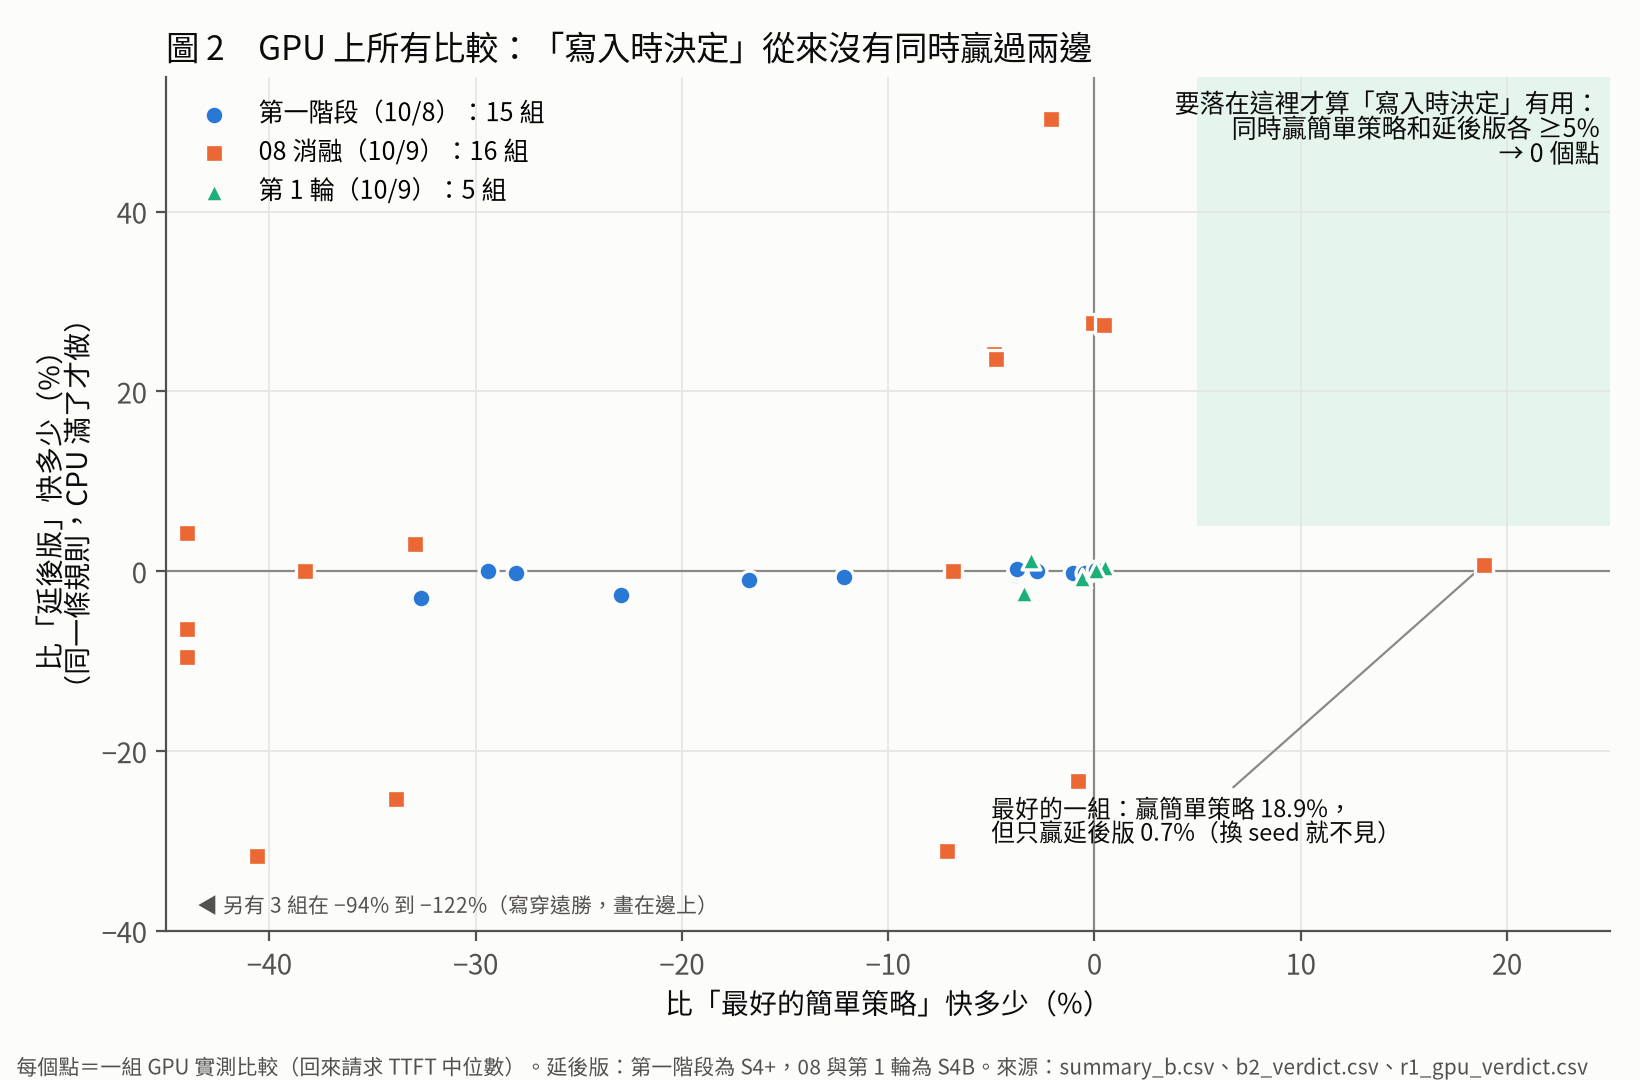
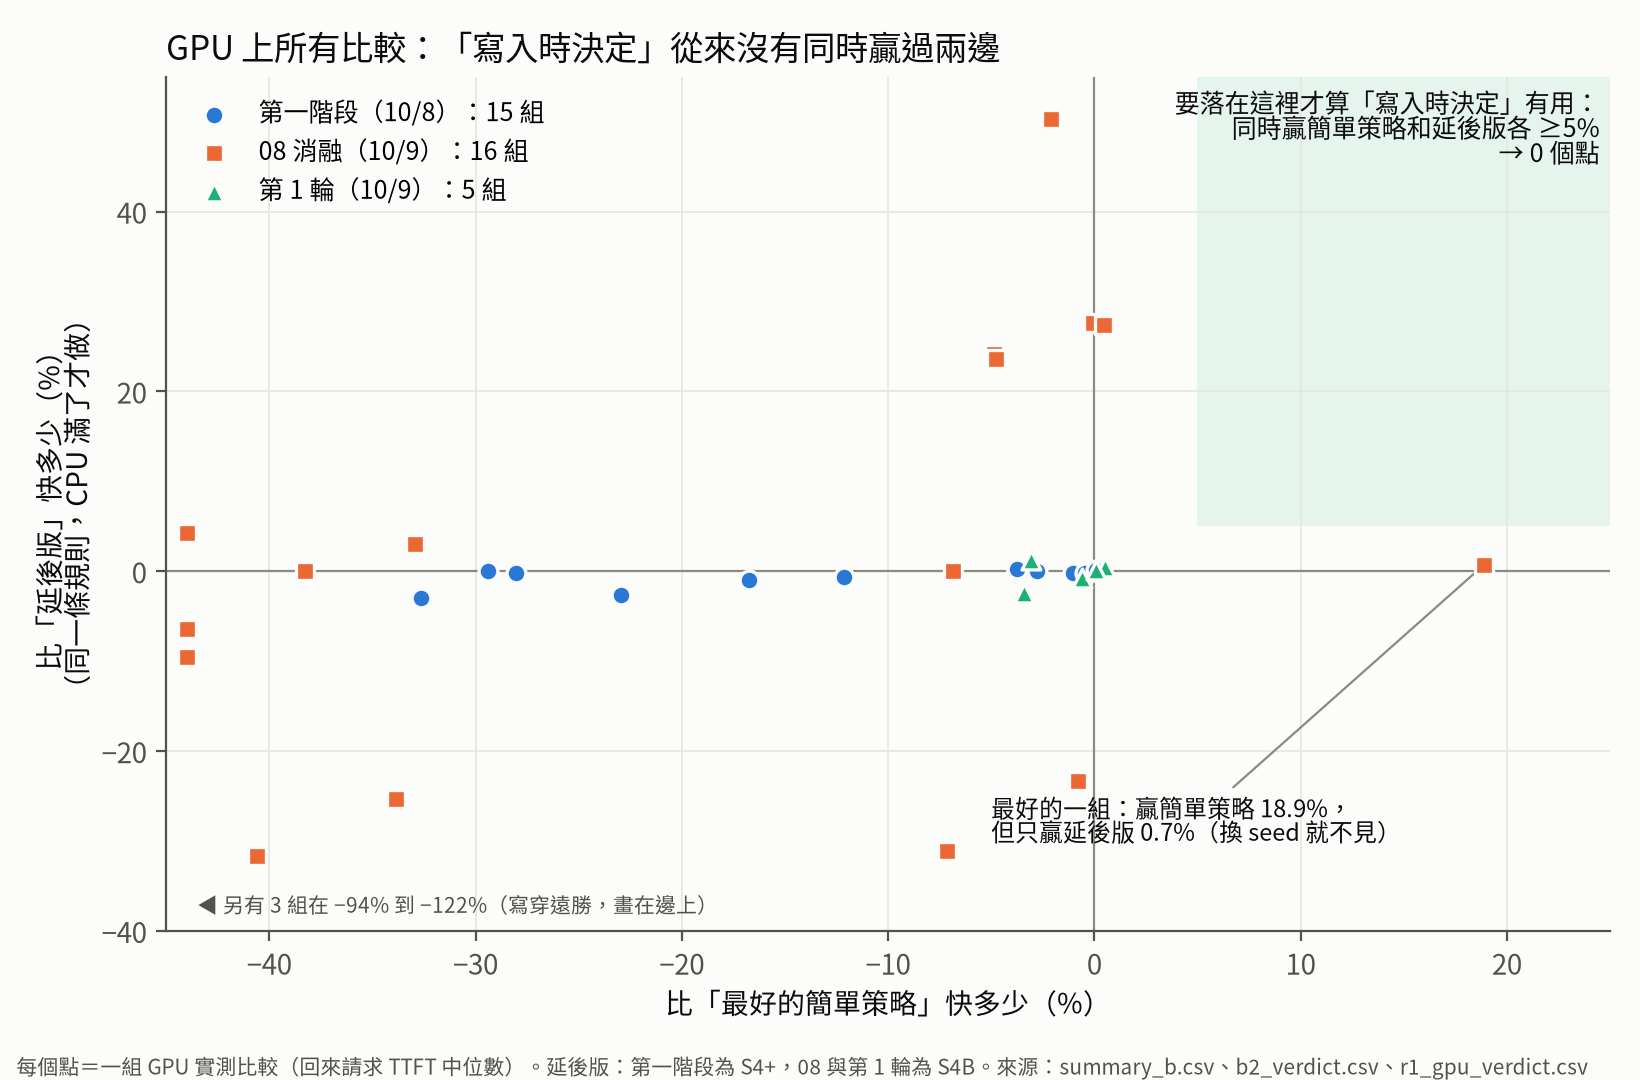
results(m9): 給老師的「時間花在哪裡」比較圖（32K、本地 SSD、GPU 閒／忙）
Claude-Session: https://claude.ai/code/session_01DSvhi2Kb7t9pTCccJpveLE

Changed region(s): [[0.0933, 0.0306, 0.6841, 0.0611]]

diff --git a/code/m9_advisor_breakdown.py b/code/m9_advisor_breakdown.py
@@ -1,0 +1,109 @@
+"""m9_advisor_breakdown.py — 給老師的「時間花在哪裡」比較圖（一張）。只讀既有的 A1 CSV，不產生新的量測。
+
+Cake 還原時兩條線同時跑：GPU 從前面重算、I/O 從後面載入（CPU 層、SSD 層），兩條線都結束後再算新的 token。
+每一列畫出這兩條線各花多久，就看得出等待時間卡在哪一邊。
+
+用法：python code/m9_advisor_breakdown.py
+輸出：docs/phase1_20261008/report/figs/advisor_breakdown.png；results/m9_followup/advisor_breakdown_data.csv
+"""
+import datetime
+import os
+
+import matplotlib
+import numpy as np
+import pandas as pd
+
+matplotlib.use("Agg")
+import matplotlib.pyplot as plt  # noqa: E402
+from matplotlib import font_manager  # noqa: E402
+from matplotlib.patches import Patch  # noqa: E402
+
+ROOT = os.path.join(os.path.dirname(os.path.abspath(__file__)), "..")
+SRC = os.path.join(ROOT, "results", "m7_write_policy_mi300x", "a1_share.csv")
+FIG = os.path.join(ROOT, "docs", "phase1_20261008", "report", "figs", "advisor_breakdown.png")
+OUT = os.path.join(ROOT, "results", "m9_followup", "advisor_breakdown_data.csv")
+RID = os.environ.get("RUN_ID", "no-run-id")
+TS = datetime.datetime.now(datetime.timezone.utc).isoformat(timespec="seconds")
+
+FP = "/mlsteam/data/tiara/fonts/NotoSansCJKtc-Regular.otf"
+font_manager.fontManager.addfont(FP)
+plt.rcParams.update({"font.family": [font_manager.FontProperties(fname=FP).get_name(), "DejaVu Sans"],
+                     "font.size": 10, "axes.spines.top": False, "axes.spines.right": False, "axes.spines.left": False,
+                     "axes.edgecolor": "#52514e", "xtick.color": "#52514e", "ytick.color": "#0b0b0b",
+                     "figure.facecolor": "#fcfcfb", "axes.facecolor": "#fcfcfb", "savefig.facecolor": "#fcfcfb"})
+C_GPU, C_SSD, C_CPU, C_NEW = "#2a78d6", "#eb6834", "#1baf7a", "#b9b8b2"   # 參考調色盤前三格＋中性灰
+INK, INK2 = "#0b0b0b", "#52514e"
+
+STRATS = [("S0", "全部都存"), ("S2a", "先寫再丟（前段）"), ("S3", "一開始不寫（前段）"), ("S5", "依位置放（我的方法）")]
+GPUS = [("idle", "GPU 閒"), ("busy2", "GPU 忙 2.1 倍")]
+
+
+def main():
+    a = pd.read_csv(SRC)
+    q = a[(a.L == 32768) & (a.gap == np.inf) & (a.contaminated_gpu == 0) & (a.ssd_dev == "local")]
+    g = q.groupby(["gpu_state", "strategy"]).agg(
+        t_rec=("t_recompute", "median"), t_cpu=("t_load_cpu", "median"), t_ssd=("t_load_ssd", "median"),
+        t_restore=("t_restore", "median"), t_new=("t_new", "median"), ttft=("ttft", "median"),
+        meet=("meet", "median"), n_cpu=("n_load_cpu", "median"), n_ssd=("n_load_ssd", "median"),
+        n=("ttft", "size"), src_run_id=("run_id", "first")).reset_index()
+
+    fig, ax = plt.subplots(figsize=(10.5, 6.0))
+    y, ticks, labels, rows = 0.0, [], [], []
+    h = 0.30
+    for gs, gname in GPUS:
+        ax.text(-0.02, y + 0.15, gname, ha="right", va="center", fontsize=10.5, color=INK, fontweight="bold",
+                transform=ax.get_yaxis_transform())
+        y -= 0.55
+        for s, sname in STRATS:
+            r = g[(g.gpu_state == gs) & (g.strategy == s)].iloc[0]
+            # 上：GPU 重算線；下：I/O 載入線（先 CPU 後 SSD）
+            ax.barh(y + h / 2 + 0.02, r.t_rec, h, color=C_GPU, zorder=3)
+            ax.barh(y - h / 2 - 0.02, r.t_cpu, h, color=C_CPU, zorder=3)
+            ax.barh(y - h / 2 - 0.02, r.t_ssd, h, left=r.t_cpu, color=C_SSD, zorder=3)
+            # 兩條線都結束後，算新的 token
+            ax.barh(y + h / 2 + 0.02, r.t_new, h, left=r.t_restore, color=C_NEW, zorder=3)
+            ax.plot([r.ttft, r.ttft], [y - h - 0.06, y + h + 0.06], color=INK, lw=1.6, zorder=4)
+            ax.text(r.ttft + 0.015, y, f"{r.ttft:.2f} 秒　GPU 算 {int(r.meet)} 段、I/O 搬 {int(r.n_cpu + r.n_ssd)} 段",
+                    va="center", fontsize=8.5, color=INK2)
+            ticks.append(y)
+            labels.append(sname)
+            rows.append(dict(run_id=RID, ts=TS, gpu_state=gs, strategy=s, t_recompute=r.t_rec, t_load_cpu=r.t_cpu,
+                             t_load_ssd=r.t_ssd, t_restore=r.t_restore, t_new=r.t_new, ttft=r.ttft, meet=r.meet,
+                             n_load_cpu=r.n_cpu, n_load_ssd=r.n_ssd, n_reps=r.n, src="a1_share.csv",
+                             src_run_id=r.src_run_id))
+            y -= 1.0
+        y -= 0.2
+
+    # 重點標註：GPU 忙時，一開始不寫只能把前段全部重算
+    r3 = g[(g.gpu_state == "busy2") & (g.strategy == "S3")].iloc[0]
+    r0 = g[(g.gpu_state == "busy2") & (g.strategy == "S0")].iloc[0]
+    ax.text(1.27, ticks[3] + 0.05,
+            "怎麼看：每列上面是 GPU 重算、下面是 I/O 載入，同時開始。\n"
+            "等待時間（黑線）＝比較長的那條＋算新 token。\n\n"
+            "GPU 忙時：\n"
+            f"・「全部都存」可以少算幾段（{int(g[(g.gpu_state == 'idle') & (g.strategy == 'S0')].meet.iloc[0])}→{int(r0.meet)} 段），改從 SSD 搬。\n"
+            f"・「先寫再丟」「一開始不寫」沒有前段可搬，\n　只能把 {int(r3.meet)} 段算完；I/O 早就搬完，在旁邊等。\n"
+            f"　→ 比「全部都存」慢 {100 * (r3.ttft / r0.ttft - 1):.0f}%",
+            va="center", ha="left", fontsize=8.8, color=INK, linespacing=1.45,
+            bbox=dict(boxstyle="round,pad=0.5", fc="#f3f2ee", ec="#d6d5cf", lw=0.8))
+    ax.set_yticks(ticks, labels)
+    ax.tick_params(axis="y", length=0)
+    ax.set_xlim(0, 2.05)
+    ax.set_xlabel("時間（秒）")
+    ax.grid(axis="x", color="#e6e5e0", lw=0.6, zorder=0)
+    ax.legend(handles=[Patch(color=C_GPU, label="GPU 重算（從前面往後）"), Patch(color=C_CPU, label="從 CPU 載入"),
+                       Patch(color=C_SSD, label="從 SSD 載入（從後面往前）"), Patch(color=C_NEW, label="算新的 token"),
+                       plt.Line2D([], [], color=INK, lw=1.6, label="等待時間 TTFT")],
+              loc="upper right", frameon=False, fontsize=8.5, ncol=1)
+    ax.set_title("時間花在哪裡：Cake 還原時，GPU 重算和 I/O 載入兩條線同時跑，等待時間由比較長的那條決定", loc="left",
+                 fontsize=11, color=INK, pad=12)
+    fig.text(0.01, 0.01, "Llama-3.1-8B、32K（64 段）、SSD 層＝本地 SSD 實測參數、使用者等寫完才回來；每格 6 次的中位數。"
+             f"run {g.src_run_id.iloc[0]}；畫圖程式 code/m9_advisor_breakdown.py", fontsize=7.5, color=INK2)
+    fig.tight_layout(rect=(0.04, 0.03, 1, 1))
+    fig.savefig(FIG, dpi=200)
+    pd.DataFrame(rows).to_csv(OUT, index=False)
+    print(f"{FIG}\n{OUT}: {len(rows)} 列")
+
+
+if __name__ == "__main__":
+    main()

diff --git a/code/m9_advisor_figs.py b/code/m9_advisor_figs.py
@@ -74,7 +74,7 @@ def fig1():
         ax.set_ylabel("回來請求的 TTFT（秒）")
         ax.grid(axis="x", visible=False)
     axs[0].legend(frameon=False, fontsize=9, loc="upper left")
-    fig.suptitle("圖 1　省下的寫入沒有縮短等待；GPU 忙時，沒存的前段只能重算", x=0.01, ha="left", fontsize=12, color=INK)
+    fig.suptitle("省下的寫入沒有縮短等待；GPU 忙時，沒存的前段只能重算", x=0.01, ha="left", fontsize=12, color=INK)
     fig.text(0.01, 0.005, "Llama-3.1-8B、32K、使用者等寫完才回來、每格 6 次的中位數；「算 n 段」＝64 段裡 GPU 重算了幾段（Cake 的會合點）。"
              "run 20261008-134526-m7-a1", fontsize=7.5, color=INK2)
     fig.tight_layout(rect=(0, 0.04, 1, 0.95))
@@ -133,7 +133,7 @@ def fig2():
     ax.set_xlabel("比「最好的簡單策略」快多少（%）")
     ax.set_ylabel("比「延後版」快多少（%）\n（同一條規則，CPU 滿了才做）")
     ax.legend(frameon=False, fontsize=9, loc="upper left")
-    ax.set_title("圖 2　GPU 上所有比較：「寫入時決定」從來沒有同時贏過兩邊", loc="left", fontsize=12, color=INK)
+    ax.set_title("GPU 上所有比較：「寫入時決定」從來沒有同時贏過兩邊", loc="left", fontsize=12, color=INK)
     fig.text(0.01, 0.005, "每個點＝一組 GPU 實測比較（回來請求 TTFT 中位數）。延後版：第一階段為 S4+，08 與第 1 輪為 S4B。"
              "來源：summary_b.csv、b2_verdict.csv、r1_gpu_verdict.csv", fontsize=7.5, color=INK2)
     fig.tight_layout(rect=(0, 0.03, 1, 1))
@@ -175,7 +175,7 @@ def fig3():
     ax.set_ylim(0.8, 2.35)
     ax.set_xlabel("儲存層頻寬（GiB/s，對數座標）")
     ax.set_ylabel("Cake 比「只算」和「只搬」中較快的再快幾倍")
-    ax.set_title("圖 3　讀取端（Cake）在中低頻寬最有用（32K）", loc="left", fontsize=12, color=INK)
+    ax.set_title("讀取端（Cake）在中低頻寬最有用（32K）", loc="left", fontsize=12, color=INK)
     fig.text(0.01, 0.005, f"A0：每點 6 次的中位數；只算（不搬）＝{comp:.2f} s。註：harness 的重算比預設 vLLM 慢約 1.7–2 倍，"
              "頻寬帶的絕對位置待重量。", fontsize=7.5, color=INK2)
     fig.tight_layout(rect=(0, 0.03, 1, 1))
